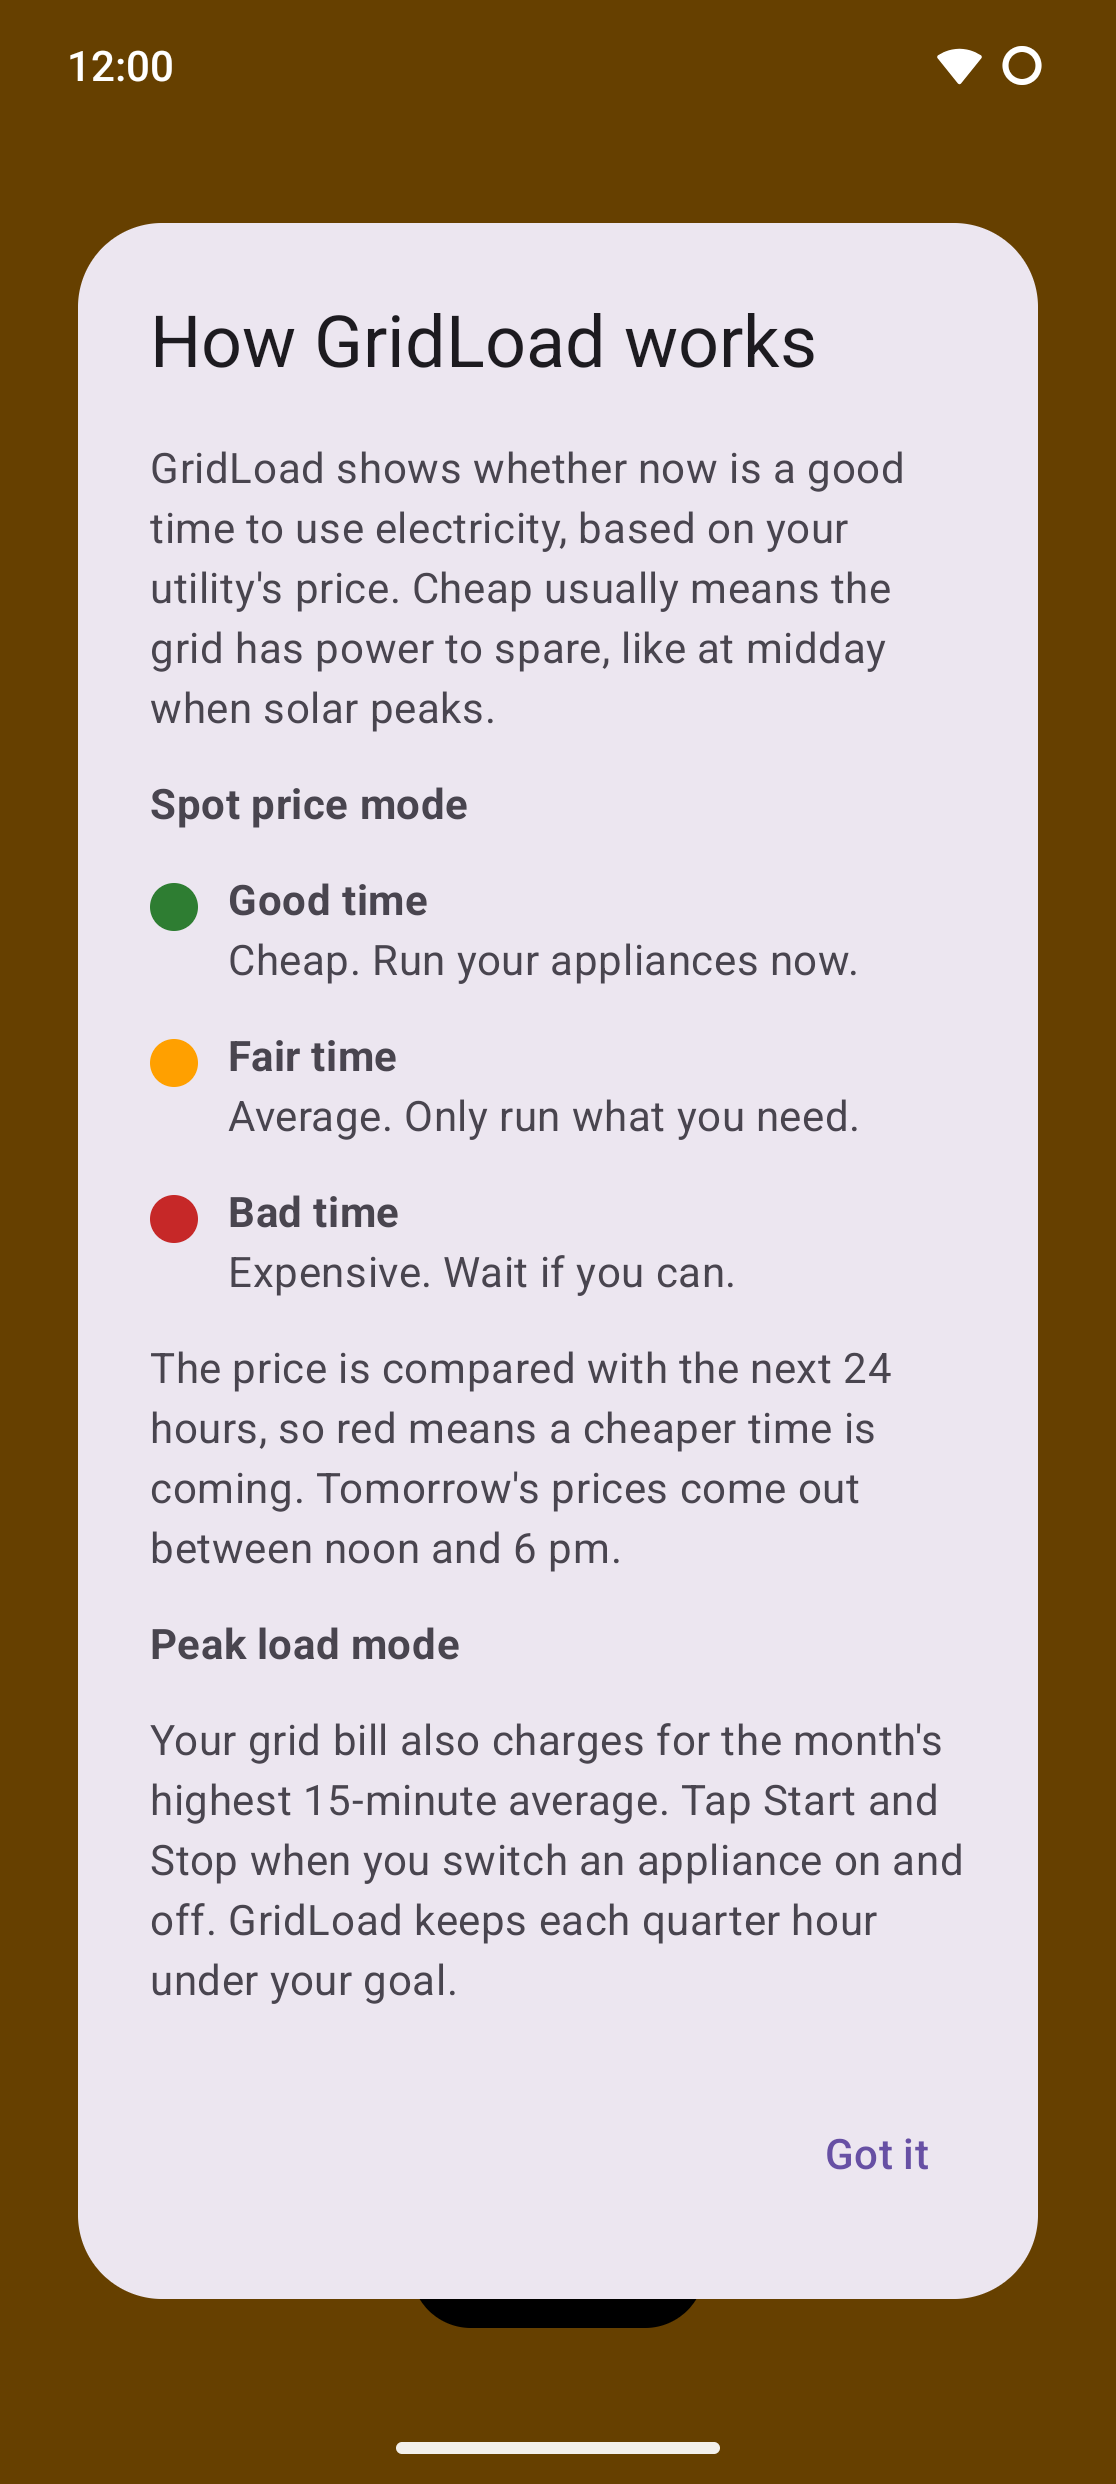
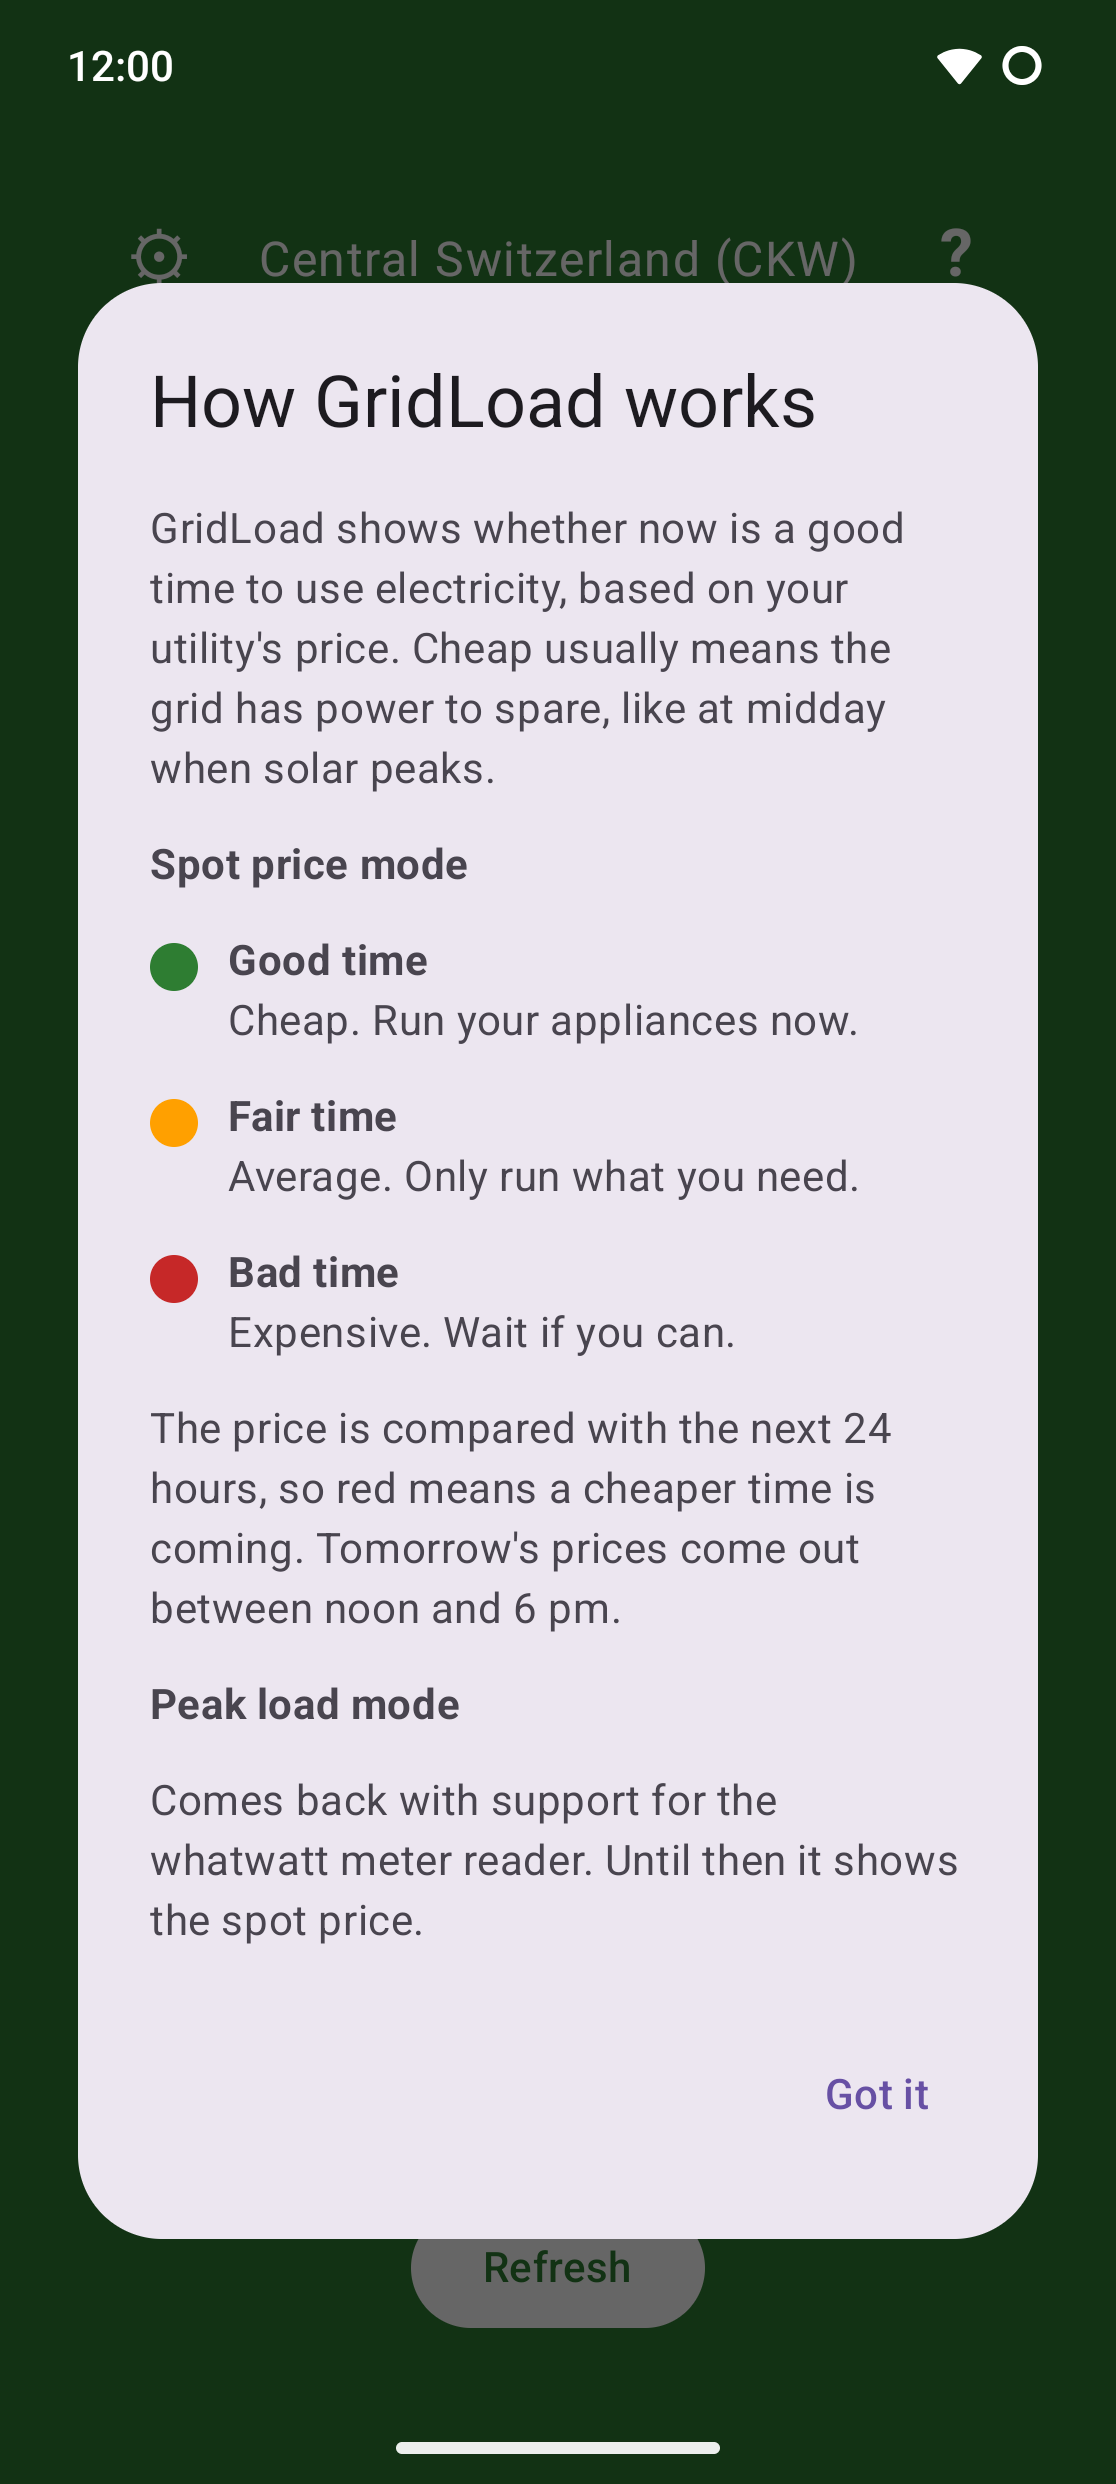
Finish the cleanup: retake screenshots, fix a lint hint, note the phone test
Screenshots 1 to 3 show the lean spot screen, the help and Settings.
The setup step uses mutableIntStateOf. The phone test passed: update
over v0.5.0 with peak.json, fresh start, both modes, region switch,
R8 build.

diff --git a/app/src/main/kotlin/io/github/buerlino/gridload/SettingsScreen.kt b/app/src/main/kotlin/io/github/buerlino/gridload/SettingsScreen.kt
@@ -26,6 +26,7 @@ import androidx.compose.material3.Text
 import androidx.compose.material3.TextButton
 import androidx.compose.runtime.Composable
 import androidx.compose.runtime.getValue
+import androidx.compose.runtime.mutableIntStateOf
 import androidx.compose.runtime.mutableStateOf
 import androidx.compose.runtime.remember
 import androidx.compose.runtime.saveable.rememberSaveable
@@ -45,7 +46,7 @@ import io.github.buerlino.gridload.core.Region
 @Composable
 fun SetupGuide(mode: Mode, region: Region, onDone: (Mode, Region) -> Unit, onClose: (() -> Unit)?) {
     val firstStep = if (onClose == null) 0 else 1
-    var step by rememberSaveable { mutableStateOf(firstStep) }
+    var step by rememberSaveable { mutableIntStateOf(firstStep) }
     var chosenMode by rememberSaveable { mutableStateOf(mode) }
     BackHandler(enabled = step > firstStep || onClose != null) { if (step > firstStep) step-- else onClose?.invoke() }
     Page {

diff --git a/.claude/skills/build-gridload-android/SKILL.md b/.claude/skills/build-gridload-android/SKILL.md
@@ -98,19 +98,21 @@ Next: answer reviewer comments in the merge request. The user posts on GitLab (i
 under their name); Claude drafts the answers and any recipe changes, and can check the merge
 request and pipelines through GitLab's public API (`/api/v4/projects/fdroid%2Ffdroiddata/merge_requests/50583`).
 
-### Cleanup [in progress: steps 1 to 3 done 2026-10-02, phone test next]
+### Cleanup [done 2026-10-02, release v0.6.0 next]
 
 Back to spot/peak + utility with no dead code. The list of what goes, the migration (delete
 `files/peak.json`) and when it's done are in `CLAUDE.md` under "Cleanup". Work through it:
 1. Remove the `:core` files and their tests, then fix `:app` until it builds; `grep` for
    every removed name (`PeakData`, `DayUsage`, `Appliance`, `Baseline`, `importLoadData`,
-   `peak.json`, `MeterReading`, …) until nothing is left.
+   `peak.json`, `MeterReading`, …) until nothing is left. Done.
 2. Simplify what remains (help text, Settings, `UiState`), drop unused dependencies and imports.
-3. Store text, README, screenshots. Done, except the screenshots: 3 and 4 (peak load mode)
-   are deleted and the old 5 (Settings) is now 3; 1 (the "Usually … kW" line), 2 (the old
-   peak load help) and 3 (the usage card) still show removed parts and need retaking.
-4. Test on the phone, with lint (the cloud session couldn't build `:app`: `dl.google.com` is
-   blocked there, so `:app` and lint are unverified; `:core:test` passed) (fresh start, update over v0.5.0, both modes, region switch, R8 build).
+   Done.
+3. Store text, README, screenshots. Done; screenshots 1 to 3 retaken (CKW, spot mode).
+4. Test on the phone, with lint. Done: build, `:core:test` and lint pass; lint's remaining
+   warnings (`DataExtractionRules`, `MonochromeLauncherIcon`, `UseKtx` on prefs edits, where
+   core-ktx is only transitive) predate the cleanup. On the phone: update from a debug v0.5.0
+   (peak mode, EKZ, a valid `peak.json` + `.bak`) deletes both and keeps the prefs; a fresh
+   start, both modes, a region switch and the R8 build (0.99 MB) work without crashes.
 5. Release v0.6.0 (versionCode 8) when the user asks.
 
 ### whatwatt [planned 2026-10-02, after the cleanup]
